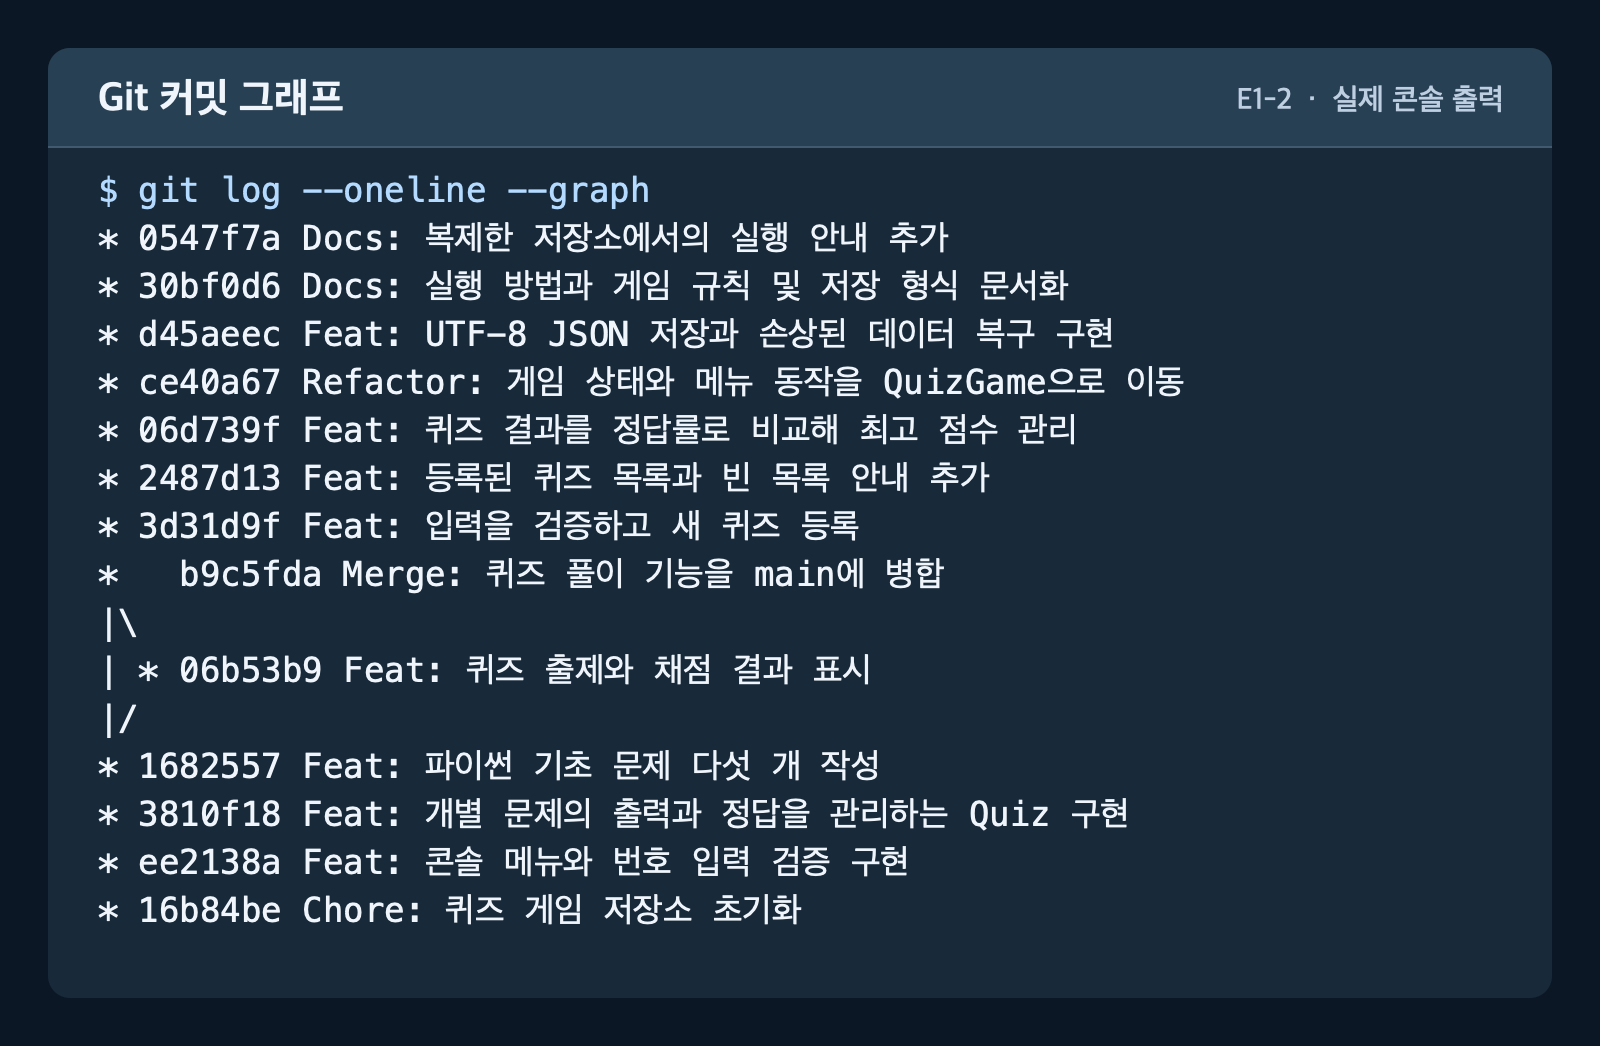
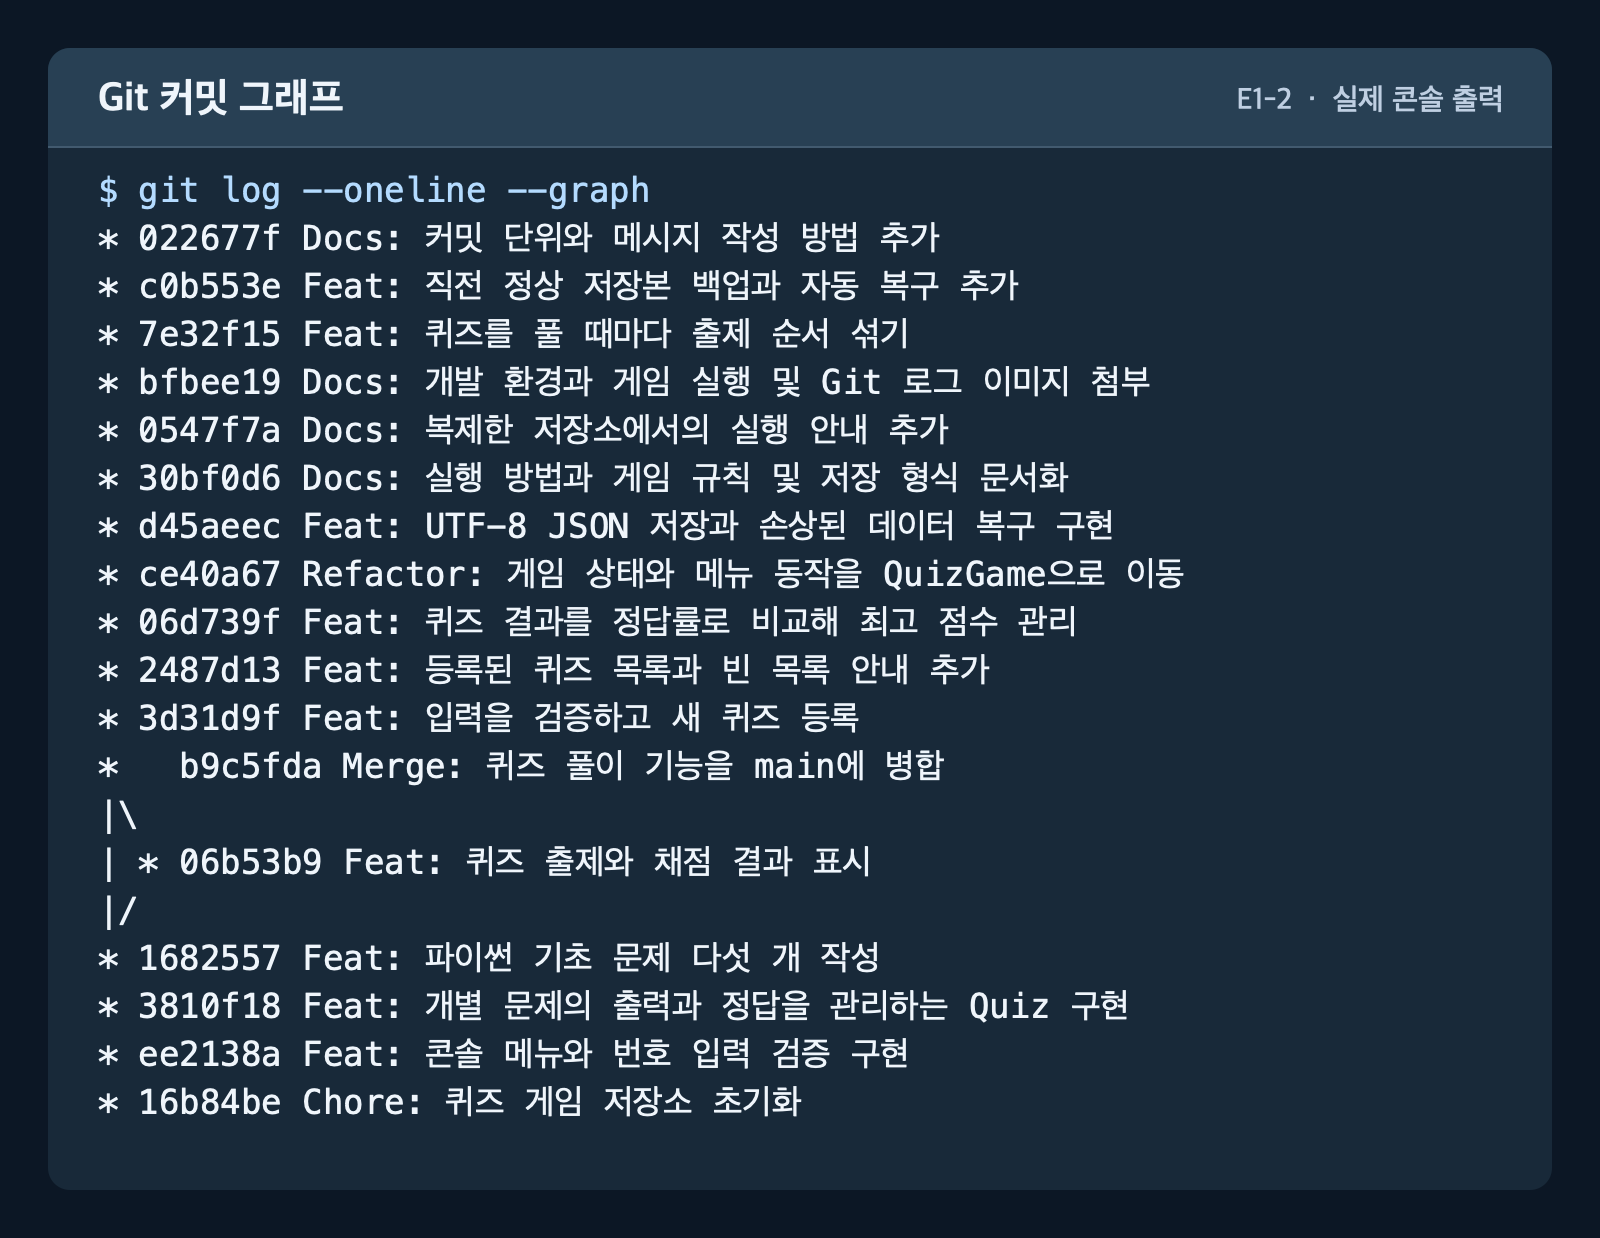
Docs: 실행·Git 증빙과 대규모 데이터 분석 보강

Changed region(s): [[0.0312, 0.0306, 0.9688, 0.9178]]

diff --git a/README.md b/README.md
@@ -4,6 +4,8 @@
 
 터미널에서 파이썬 기초 문제를 풀고 직접 문제를 등록하는 콘솔 게임입니다. 등록한 문제와 최고 점수는 종료 후에도 유지됩니다.
 
+[실행 화면과 로그](#제출-증빙) · [저장 및 복구](#저장-데이터) · [대규모 데이터 분석](docs/performance.md) · [커밋 작성 방법](CONTRIBUTING.md)
+
 ## 퀴즈 주제와 선정 이유
 
 파이썬의 자료형, 반복 범위, 예외, 인스턴스 메서드를 주제로 골랐습니다. 게임을 만드는 데 사용한 개념을 문제로 다시 확인하고, 짧은 예제의 실행 결과를 직접 예측해 볼 수 있기 때문입니다.
@@ -20,8 +22,6 @@ python3 main.py
 
 이미 내려받은 경우 프로젝트 폴더에서 `python3 main.py`만 실행하면 됩니다.
 
-복제한 저장소에서도 같은 명령으로 게임을 실행할 수 있습니다.
-
 ## 기능 목록
 
 | 메뉴 | 동작 |
@@ -34,7 +34,19 @@ python3 main.py
 
 번호 입력은 앞뒤 공백을 제거하고, 빈 입력·정수가 아닌 입력·범위를 벗어난 입력을 다시 받습니다. 점수는 정답률을 100점 만점의 정수로 내림해 표시합니다. 최고 기록 갱신에는 내림 전 정답률을 비교하고, 같은 정답률이면 먼저 세운 기록을 유지합니다.
 
+| 잘못된 입력 | 안내 메시지 |
+| --- | --- |
+| 메뉴에서 Enter만 누름 | `번호를 입력하세요.` |
+| 메뉴에 `abc` 입력 | `정수를 입력하세요.` |
+| 메뉴에 `9` 입력 | `1~5 사이의 번호를 입력하세요.` |
+| 정답 번호에 `0` 입력 | `1~4 사이의 번호를 입력하세요.` |
+| 문제나 선택지를 비워 둠 | `내용을 입력하세요.` |
+
+기본 문제 예시로 `len([10, 20, 30])의 결과는?`가 있습니다. 선택지는 1번 `2`, 2번 `3`, 3번 `10`, 4번 `30`이며, 정답은 2번입니다.
+
 출제할 때는 퀴즈 목록의 복사본을 표준 라이브러리의 `random.shuffle()`로 섞습니다. 퀴즈 목록 화면과 저장 파일은 등록 순서를 유지합니다.
+
+메뉴에서 5번을 선택하거나 Ctrl+C 또는 EOF로 종료하면 남은 저장 작업을 시도합니다. 운영 환경에서 SIGTERM도 처리해야 한다면 시그널 처리기에서는 종료 요청만 표시하고, 게임의 종료 경로로 돌아가 저장하도록 확장할 수 있습니다. 현재 SIGTERM은 운영체제의 기본 동작을 따릅니다.
 
 ## 파일 구조
 
@@ -42,27 +54,69 @@ python3 main.py
 | --- | --- |
 | `main.py` | 프로그램 실행 |
 | `quiz.py` | 개별 문제 표현, 출력, 채점, JSON 항목 변환 |
-| `quiz_game.py` | 콘솔 메뉴, 입력 처리, 게임 진행, 점수 관리, 파일 저장과 복구 |
+| `quiz_game.py` | 콘솔 메뉴, 입력 처리, 게임 진행, 점수 관리, 저장·복구 흐름 |
+| `storage.py` | JSON 검증, 정상 버전 백업, 안전한 파일 교체 |
 | `default_quizzes.py` | 기본 퀴즈 5개 |
 | `state.json` | 실행 시 생성되는 개인 퀴즈와 최고 점수 데이터 |
-| `docs/screenshots/` | 개발 환경, 실행 결과, Git 커밋 그래프 이미지 |
-| `.gitignore` | 개인 저장 데이터와 파이썬 캐시를 Git에서 제외 |
+| `state.json.bak` | 직전에 검증된 정상 저장본 한 세대 |
+| `state.json.corrupt-*` | 복구 직전에 보존한 손상 파일 |
+| `docs/screenshots/`, `docs/logs/` | 개발 환경, 프로그램 실행, Git 실습 증빙 |
+| `.gitignore` | 개인 저장 데이터, 백업, 손상본, 파이썬 캐시를 Git에서 제외 |
+
+`Quiz`는 한 문제의 질문·선택지·정답을 함께 관리합니다. 기본 문제, 사용자가 추가한 문제, JSON에서 읽은 문제가 같은 생성자 검증과 `is_correct()`를 재사용합니다. `QuizGame`은 여러 문제와 최고 점수, 메뉴 흐름을 하나의 세션으로 묶습니다. 예를 들어 `play()`는 각 문제를 `Quiz.show()`로 출력하고 채점한 뒤 그 세션의 최고 점수를 갱신합니다.
+
+| 변경할 요구사항 | 확인할 파일과 함수·메서드 |
+| --- | --- |
+| 메뉴, 입력 메시지, 입력 범위 | `quiz_game.py`의 `run()`, `show_menu()`, `read_number()`, `read_text()` |
+| 출제 순서, 문제 수, 점수 | `quiz_game.py`의 `play()`, `update_best_score()`, `show_best_score()` |
+| 기본 문제·선택지·정답 형식 | `default_quizzes.py`의 `make_default_quizzes()`, `quiz.py`의 `Quiz`, `quiz_game.py`의 `add_quiz()` |
+| 저장 경로, 스키마, 백업 | `quiz_game.py`의 `load_state()`, `save_state()`, `storage.py`의 `read_state()`, `write_state()`, `quiz.py`의 `to_record()`, `from_record()`, `.gitignore` |
 
 ## 저장 데이터
 
-실행한 디렉터리와 관계없이 프로젝트 루트의 `state.json`을 UTF-8로 읽고 씁니다. 첫 실행에는 기본 퀴즈 5개와 빈 최고 기록으로 시작합니다. JSON이 손상되었거나 필드 구조가 잘못됐으면 안내 후 기본 상태로 복구합니다. 새 문제와 최고 기록은 바로 저장하고, 저장이 실패하면 종료할 때 다시 시도합니다.
+실행한 디렉터리와 관계없이 프로젝트 루트의 `state.json`을 UTF-8로 읽고 씁니다.
 
 | 필드 | 구조 |
 | --- | --- |
 | `quizzes` | 문제 객체의 배열. 각 객체는 `question`(문자열), `choices`(문자열 4개의 배열), `answer`(1–4 사이의 정수)를 가집니다. |
 | `best_score` | 게임을 마친 기록이 없으면 `null`. 기록이 있으면 `correct`(정답 수)와 `total`(전체 문제 수)을 담은 객체입니다. |
 
-## 제출용 이미지
+```json
+{
+  "quizzes": [
+    {
+      "question": "len([10, 20, 30])의 결과는?",
+      "choices": ["2", "3", "10", "30"],
+      "answer": 2
+    }
+  ],
+  "best_score": {"correct": 1, "total": 1}
+}
+```
 
-실제 명령과 게임의 콘솔 출력을 PNG로 정리했습니다. 퀴즈 풀이 이미지는 첫 문제와 최종 결과를 보여 줍니다. 점수 확인 이미지는 게임을 다시 실행해 저장된 점수를 확인한 화면입니다.
+| 상황 | 동작 |
+| --- | --- |
+| 첫 실행 | 저장본과 백업이 없으면 기본 퀴즈 5개와 빈 최고 기록으로 시작하고, 종료할 때 파일을 생성합니다. |
+| 퀴즈 추가·최고 점수 갱신 | 현재 JSON을 검증해 `state.json.bak`에 한 세대 보관한 후, 임시 파일로 완성한 새 JSON을 `state.json`에 반영합니다. |
+| 저장본 누락·손상 | 정상 백업이 있으면 퀴즈와 점수를 복구합니다. 백업도 없거나 손상됐으면 기본 퀴즈로 시작합니다. 복구 내용을 저장할 때 손상된 원본은 `state.json.corrupt-*`에 복사합니다. |
+| 쓰기 실패 | `save_state()`에서 콘솔에 오류를 출력하고, 종료 시 `run()`의 `finally`에서 안내와 함께 저장을 다시 시도합니다. |
 
-- [개발 환경](docs/screenshots/environment.png)
-- [메뉴](docs/screenshots/menu.png) · [퀴즈 추가](docs/screenshots/add_quiz.png) · [퀴즈 목록](docs/screenshots/list_quizzes.png) · [퀴즈 풀이](docs/screenshots/play.png) · [점수 확인](docs/screenshots/score.png)
-- [복제·푸시·풀 실습 직후의 Git 커밋 그래프](docs/screenshots/git_log.png)
+권한 오류가 나면 프로젝트 폴더에서 `ls -ld . state.json state.json.bak`로 소유자와 권한을 확인하세요. 파일을 읽을 수 없으면 그 실행에서는 저장을 건너뜁니다. 읽기 오류는 소유자에게 파일 읽기 권한과 폴더 접근 권한을 받아 프로그램을 다시 실행하세요. 쓰기 오류는 폴더의 쓰기·접근 권한을 확인한 뒤 게임에서 5번으로 종료해 다시 저장을 시도하세요. 읽기 전용 위치라면 기존 저장본과 정상 백업을 쓰기 가능한 프로젝트 복사본으로 옮겨 실행합니다.
 
-퀴즈 풀이 기능은 `codex/play-quiz` 브랜치에서 개발한 뒤 `main`에 병합했습니다. 이후 GitHub 저장소를 별도 디렉터리에 복제하고 그곳에서 README를 수정해 푸시한 뒤, 원래 작업 디렉터리에서 `git pull --ff-only origin main`을 실행해 변경을 확인했습니다.
+수동 복구가 필요하면 게임을 종료하고 `state.json`과 백업을 별도 위치에 복사하세요. 정상 백업의 퀴즈와 점수를 확인하고 `state.json`으로 복사한 뒤 다시 실행하세요. 백업은 직전 버전이므로 가장 최근에 추가한 문제나 점수는 빠질 수 있습니다. 장기 보존이 필요하면 정상 저장본을 날짜별로 별도 위치에 복사해 두세요.
+
+## 제출 증빙
+
+![퀴즈 풀이 화면](docs/screenshots/play.png)
+
+| 확인 항목 | 증빙 |
+| --- | --- |
+| 개발 환경 | [Python·Git 설정](docs/screenshots/environment.png) |
+| 메뉴와 게임 실행 | [메뉴](docs/screenshots/menu.png) · [추가](docs/screenshots/add_quiz.png) · [목록](docs/screenshots/list_quizzes.png) · [풀이](docs/screenshots/play.png) · [재실행 후 점수](docs/screenshots/score.png) · [전체 콘솔 로그](docs/logs/game.txt) |
+| 커밋과 병합 | [Git 그래프 PNG](docs/screenshots/git_log.png) · [커밋 해시와 병합 로그](docs/logs/git_graph.txt) |
+| 복제·푸시·풀 | [clone PNG](docs/screenshots/git_clone.png) · [push·pull PNG](docs/screenshots/git_pull.png) · [clone 로그](docs/logs/git_clone.txt) · [push·pull 로그](docs/logs/git_pull.txt) |
+| 자동 복구 | [저장본 손상과 정상 백업 복구 로그](docs/logs/recovery.txt) |
+
+PNG는 실제 콘솔 출력을 이미지로 옮긴 것입니다. 전체 게임 로그에는 메뉴 선택, 입력 오류, 퀴즈 등록, 섞인 순서로 진행한 6문제 풀이, 재실행 후 점수 확인을 담았습니다.
+
+퀴즈 풀이 기능은 `codex/play-quiz` 브랜치에서 개발한 뒤 병합 커밋 [`b9c5fda`](https://github.com/javapv1887/e1-2-quiz-game/commit/b9c5fda)로 `main`에 합쳤습니다. 피드백 반영 때 GitHub 저장소를 별도 폴더에 복제해 `CONTRIBUTING.md`를 커밋·푸시하고, 원본에서 `git pull --ff-only origin main`으로 같은 커밋을 받았습니다.

diff --git a/docs/performance.md b/docs/performance.md
@@ -1,0 +1,28 @@
+# 퀴즈가 1,000개 이상일 때의 성능
+
+`N`은 문제 수, `B`는 문제와 선택지를 담은 JSON의 바이트 수, `T`는 모든 제목의 문자 수입니다. 선택지는 문제당 4개입니다. 질문과 선택지 길이가 비슷하면 `B`와 `T`도 대체로 `N`에 비례합니다.
+
+| 작업 | 시간 | 추가 메모리와 입출력 |
+| --- | --- | --- |
+| 시작 시 읽기·검증 | O(B + N) | JSON 파싱 결과와 `Quiz` 객체가 한동안 함께 있어 O(B + N) |
+| 랜덤 출제 준비 | O(N) | 퀴즈 객체의 참조만 복사해 O(N) |
+| 퀴즈 추가·최고 기록 저장 | O(B + N) | 이전 파일을 검증하고 백업과 새 상태를 각각 씁니다. 저장 중 O(B + N) 메모리가 필요하고, 디스크에는 정상본과 백업 외에 교체용 임시 파일이 잠시 생깁니다. |
+| 목록 출력 | O(T + N) | 각 제목을 한 줄씩 출력해 출력 문자열을 한꺼번에 보관할 필요가 없습니다. |
+| 제목 부분 검색을 추가할 경우 | 고정 검색어의 전체 순회는 O(T + N) | 일치 항목 수가 `K`라면 결과 목록에 O(K). 현재 게임에 검색 메뉴는 없습니다. |
+
+## 로컬 측정
+
+Python 3.14.3, Apple Silicon Mac에서 짧은 한국어 제목과 선택지 4개를 가진 합성 퀴즈를 사용했습니다. 시간은 작업별 7회 중앙값입니다. 저장은 최고 기록을 매번 바꿔 기존 파일 검증과 백업·본 파일 쓰기를 포함했습니다. 검색은 찾는 제목이 없는 고정 문자열로 모든 제목을 확인했습니다. 메모리는 시작 시 JSON 읽기·검증 구간의 `tracemalloc` 최대 Python 할당량입니다.
+
+| 퀴즈 수 | JSON 크기 | 읽기·검증 | 백업 포함 저장 | 복사·셔플 | 제목 전체 검색 | 읽기 최대 메모리 |
+| ---: | ---: | ---: | ---: | ---: | ---: | ---: |
+| 1,000 | 203.1 KiB | 2.384 ms | 18.551 ms | 0.174 ms | 0.031 ms | 1.02 MiB |
+| 10,000 | 2,040.0 KiB | 19.675 ms | 156.299 ms | 1.754 ms | 0.287 ms | 9.25 MiB |
+
+이 수치에는 콘솔 출력, 사람의 입력 시간, 운영체제의 전체 메모리 사용량이 포함되지 않습니다. 디스크·파일 캐시·문자열 길이에 따라 측정값이 달라집니다.
+
+## 병목에 따른 개선 방안
+
+- 문제 목록이 길어지면 먼저 페이지 단위로 출력하고 게임당 문제 수를 선택하게 합니다. 이미 메모리에 있는 목록에서 일부만 무작위로 출제할 때는 `random.sample()`로 필요한 수만 뽑을 수 있습니다.
+- 퀴즈 추가나 점수 갱신 때 전체 JSON 재작성이 느려지면 표준 라이브러리의 SQLite로 옮겨 문제와 최고 점수를 행 단위로 저장합니다. 퀴즈 변경과 관련 점수 갱신을 한 트랜잭션에 묶고, 기존 JSON을 가져온 뒤 복구 방법을 검증합니다.
+- 정확한 제목 검색이 많이 필요하면 제목을 정규화해 SQLite 제목 인덱스를 사용합니다. 임의 부분 문자열 검색이 필요하면 일반 제목 인덱스로 해결하기 어려우므로 검색 방식과 데이터 규모를 확인한 뒤 FTS5의 토크나이저나 별도 검색 인덱스를 검토합니다.
